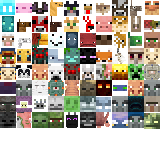
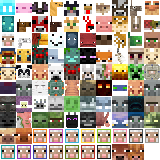
Add mob variants to the mob sprite
This adds the warm and cold variants of pigs and cows, and all the different
sheep colours.

Changed region(s): [[0.0, 0.6875, 1.0, 1.0]]

diff --git a/icons/sprite.scss b/icons/sprite.scss
@@ -1,15 +1,17 @@
 @use "sass:list";
 
-$spriter1: (allay, axolotl, bat, camel, cat, chicken, cod, cow, donkey, frog);
-$spriter2: (glow_squid, horse, mooshroom, mule, ocelot, parrot, pig, pufferfish, rabbit, "salmon");
-$spriter3: (sheep, skeleton_horse, sniffer, snow_golem, squid, strider, tadpole, tropical_fish, turtle, villager);
+$spriter1: (allay, axolotl, bat, camel, cat, chicken, cod, cow_temperate, donkey, frog);
+$spriter2: (glow_squid, horse, mooshroom, mule, ocelot, parrot, pig_temperate, pufferfish, rabbit, "salmon");
+$spriter3: (sheep_white, skeleton_horse, sniffer, snow_golem, squid, strider, tadpole, tropical_fish, turtle, villager);
 $spriter4: (wandering_trader, bee, cave_spider, dolphin, drowned, enderman, fox, goat, iron_golem, llama);
 $spriter5: (trader_llama, panda, piglin, polar_bear, spider, wolf, zombified_piglin, blaze, creeper, elder_guardian);
 $spriter6: (endermite, evoker, ghast, guardian, hoglin, husk, magma_cube, phantom, piglin_brute, pillager);
 $spriter7: (ravager, shulker, silverfish, skeleton, slime, stray, vex, vindicator, warden, witch);
 $spriter8: (wither_skeleton, zoglin, zombie, zombie_villager, ender_dragon, wither, armadillo, breeze, illusioner, bogged);
+$spriter9: (pig_cold, pig_warm, sheep_orange, sheep_magenta, sheep_light_blue, sheep_yellow, sheep_lime, sheep_pink, sheep_gray, sheep_light_gray);
+$spriter10: (sheep_cyan, sheep_purple, sheep_blue, sheep_brown, sheep_green, sheep_red, sheep_black, cow_warm, cow_cold);
 
-$spriteRowList: ($spriter1, $spriter2, $spriter3, $spriter4, $spriter5, $spriter6, $spriter7, $spriter8);
+$spriteRowList: ($spriter1, $spriter2, $spriter3, $spriter4, $spriter5, $spriter6, $spriter7, $spriter8, $spriter9, $spriter10);
 
 @mixin sprite($x, $y, $zoom: 1) {
   background-image: url(./mobs.png);
@@ -39,6 +41,8 @@ $spriteRowList: ($spriter1, $spriter2, $spriter3, $spriter4, $spriter5, $spriter
       padding: 8px;
 
       display: inline-block;
+
+      image-rendering: pixelated;
     }
   }
 }

diff --git a/common.py b/common.py
@@ -682,7 +682,24 @@ ENTITY_NAMES = {
     'zombie': 'Zombie',
     'zombified_piglin': 'Zombified Piglin',
 }
-
+SHEEP_COLOURS = [
+    'white',
+    'orange',
+    'magenta',
+    'light_blue',
+    'yellow',
+    'lime',
+    'pink',
+    'gray',
+    'light_gray',
+    'cyan',
+    'purple',
+    'blue',
+    'brown',
+    'green',
+    'red',
+    'black'
+]
 
 def _process_entity_poi(poi):
     """Apply common processing to entity POIs.
@@ -692,8 +709,25 @@ def _process_entity_poi(poi):
 
     hover = "%s" % (poi.get("CustomName") or entity_id)
 
+    variant = ''
+
+    if entity_id in ['pig', 'cow']:
+        if 'variant' in poi:
+            variant = poi['variant'][len('minecraft:'):]
+        else:
+            variant = 'temperate'
+    elif entity_id == "sheep":
+        if 'Color' in poi:
+            variant = SHEEP_COLOURS[poi['Color']]
+        else:
+            variant = 'white'
+
+    augmented_entity_id = entity_id
+    if variant != '':
+        augmented_entity_id = entity_id + '_' + variant
+
     window = '<div class="infoWindow-entity-wrapper">'
-    window += '<div class="infoWindow-entity-icon icon mc-entity-%s"></div>' % entity_id
+    window += '<div class="infoWindow-entity-icon icon mc-entity-%s"></div>' % augmented_entity_id
 
     if "CustomNameRaw" in poi:
         name_html = json_text_to_html(poi["CustomNameRaw"])
@@ -701,6 +735,8 @@ def _process_entity_poi(poi):
         name_html = entity_id
 
     mob_name = ENTITY_NAMES.get(entity_id, entity_id)
+    if variant != '':
+        mob_name = mob_name + ' (' + variant + ')'
     window += '<div class="infoWindow-entity-text"><h4>%s</h4><div>%s</div></div></div>' % (name_html, mob_name)
 
     if "Pos" in poi:
@@ -718,7 +754,7 @@ def _process_entity_poi(poi):
         )
         window += coords
 
-    return hover, window, entity_id
+    return hover, window, augmented_entity_id
 
 
 def named_mob_filter(poi):
